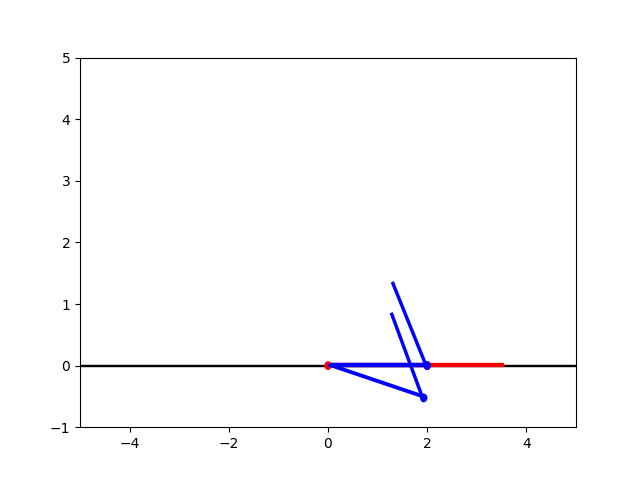
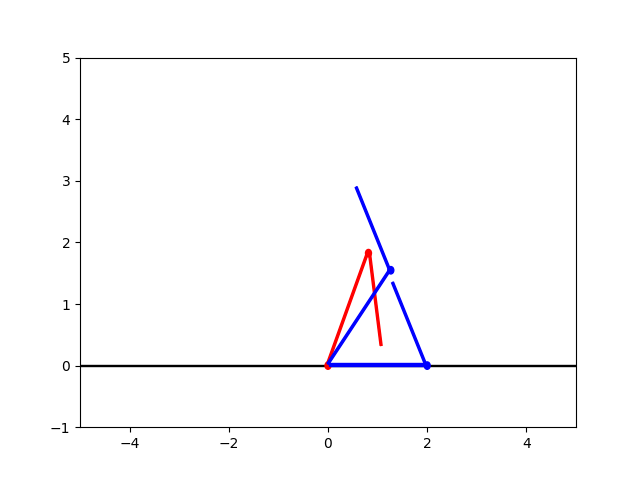
update nearest neighbors

Changed region(s): [[0.5, 0.4062, 0.7812, 0.8438], [0.5312, 0.375, 0.5625, 0.4062]]

diff --git a/assignment2/sr1425-sk2428/nearest_neighbors.py b/assignment2/sr1425-sk2428/nearest_neighbors.py
@@ -10,10 +10,15 @@ def get_configurations_from_tuple(distances):
 def get_k_nearest_neighbors_freebody(k, configs, origin):
     distances = []
     for config in configs:
-        distance = np.linalg.norm(np.array(config) - np.array(origin))
+        distance = get_difference_freebody(config, origin)
         distances.append((distance, config))
     distances.sort(key=lambda x: x[0])
     return get_configurations_from_tuple(distances)[:k]
+
+def get_difference_freebody(config, origin):
+    pos_dist = np.linalg.norm(np.array(config[:2]) - np.array(origin[:2]))
+    angle_diff = min(abs(config[2] - origin[2]), 2*np.pi - abs(config[2] - origin[2]))
+    return pos_dist + angle_diff
 
 def get_xy_arm_coordinates(config):
     angle_1, angle_2 = config
